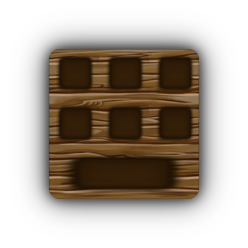
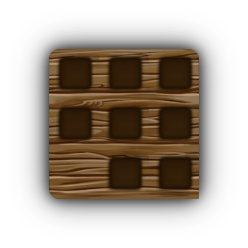
Bull

diff --git a/Assets/scripts/UI/button_active.cs b/Assets/scripts/UI/button_active.cs
@@ -8,6 +8,7 @@ public class button_active : MonoBehaviour {
 	public GameObject trap;
 	public GameObject fence;
 	public GameObject Sell;
+	public GameObject bull;
 
 	void Update () {
 		if (globals.i.Money < 10)     /*Carrot: 10*/
@@ -34,5 +35,10 @@ public class button_active : MonoBehaviour {
 			Sell.SetActive (false);
 		else
 			Sell.SetActive (true);
+		
+		if (globals.i.Money < 15)	  /*bull: 15*/
+			bull.SetActive (false);
+		else
+			bull.SetActive (true);
 	}
 }
